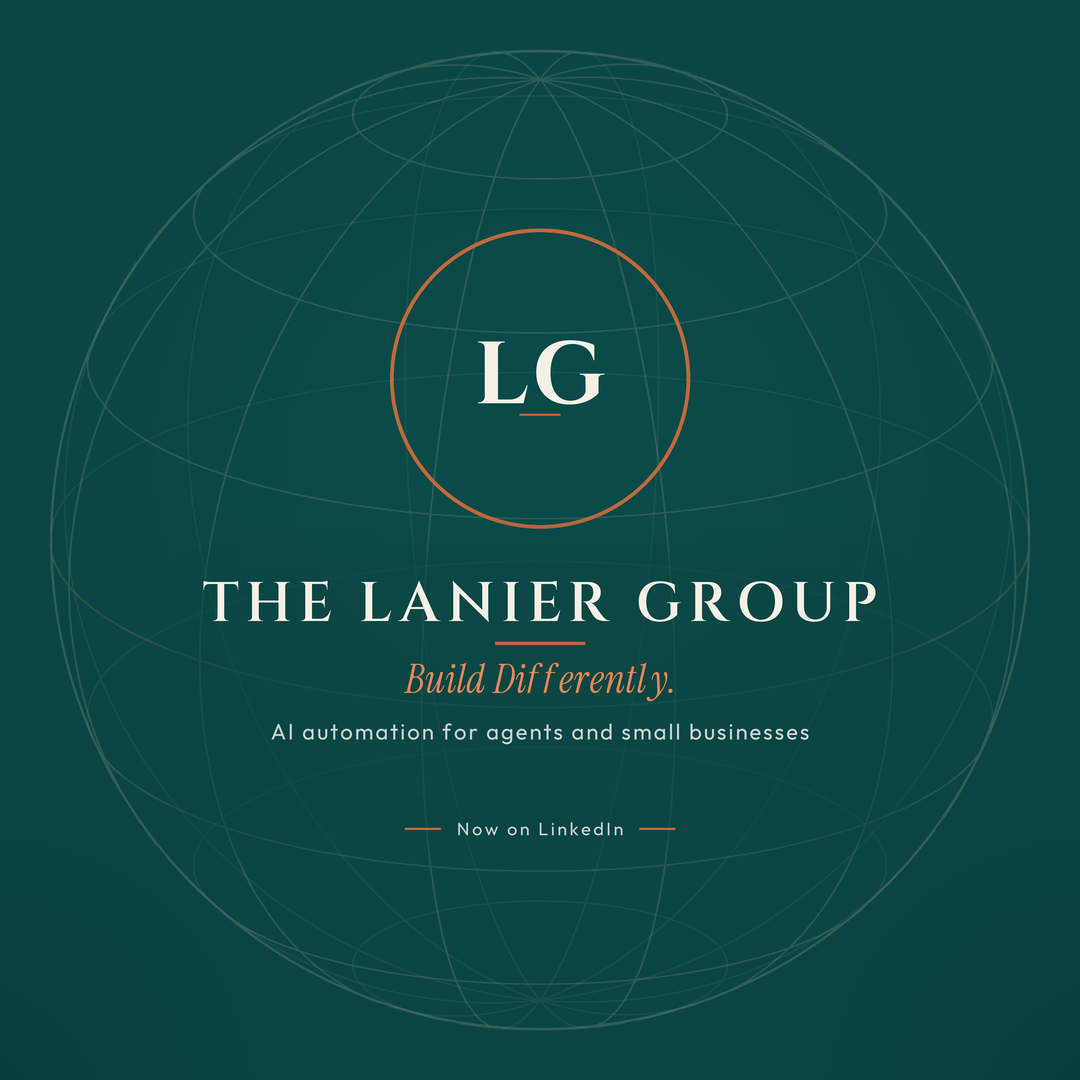
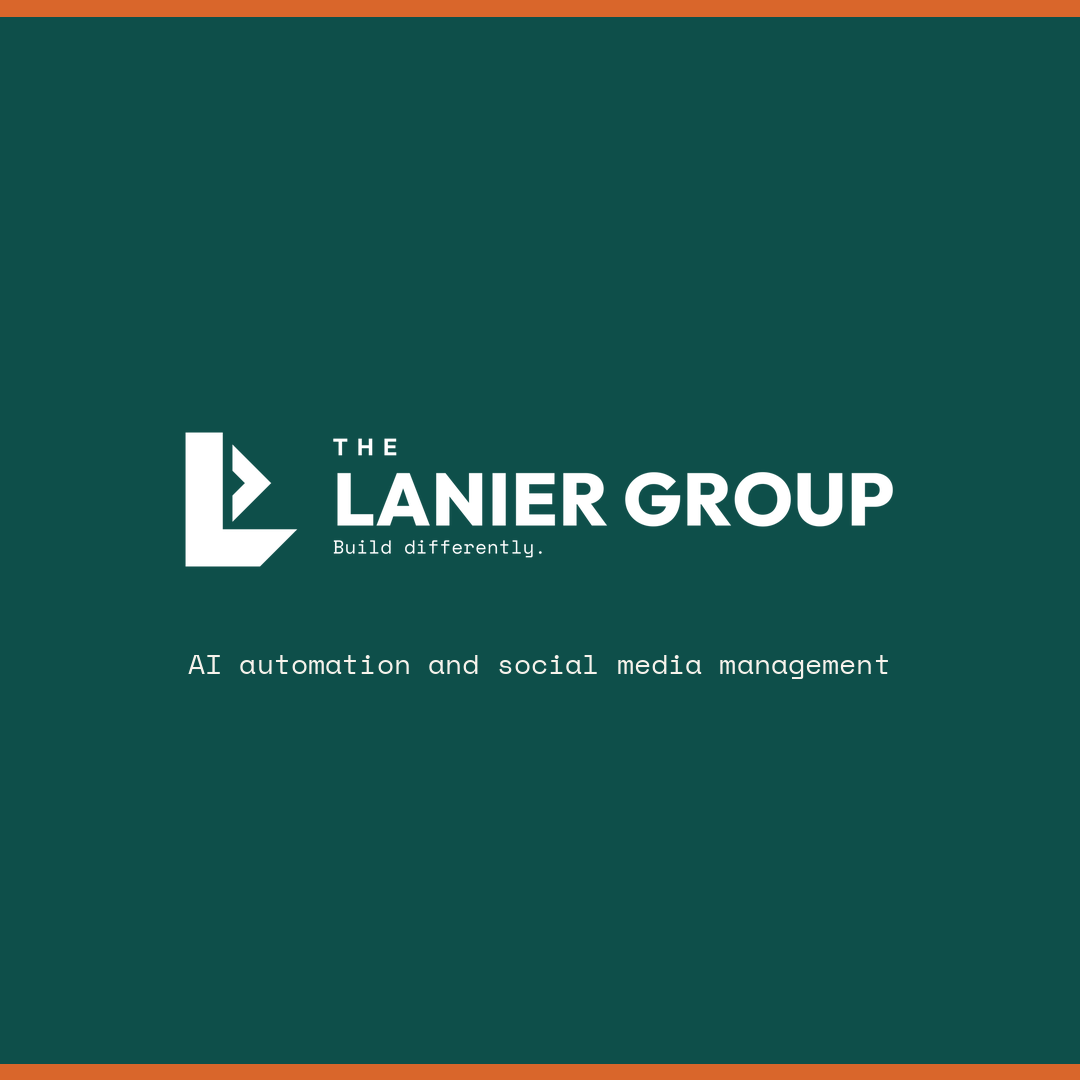
Update site to the approved Momentum brand
Replace the old circular LG monogram and Cinzel palette with the
Momentum mark, teal #0E4F4A, burnt orange #D9662B, and cream #F7F3EC.
Copy, v3 prices, and quote form links are unchanged.

diff --git a/styles.css b/styles.css
@@ -1,20 +1,21 @@
-/* The Lanier Group — draft site. Not published. */
+/* The Lanier Group — Momentum brand. */
 :root {
-  --teal: #0A4543;
-  --teal-deep: #073534;
-  --teal-mid: #0e5552;
-  --copper: #C1693C;
-  --copper-light: #E88858;
-  --copper-soft: #d47a4a;
-  --cream: #F5F0E6;
-  --cream-dark: #ebe4d6;
-  --ink: #14312f;
-  --ink-muted: #3d5553;
-  --white: #fffdf8;
-  --line: rgba(193, 105, 60, 0.35);
-  --shadow: 0 12px 40px rgba(10, 69, 67, 0.12);
-  --serif: "Cinzel", "Times New Roman", serif;
-  --sans: "Source Sans 3", "Source Sans Pro", "Helvetica Neue", Arial, sans-serif;
+  --teal: #0E4F4A;
+  --teal-deep: #0A3633;
+  --teal-mid: #13625C;
+  --copper: #D9662B;
+  --copper-light: #E37B45;
+  --copper-soft: #E08A58;
+  --cream: #F7F3EC;
+  --cream-dark: #E4DDD2;
+  --ink: #2C2A28;
+  --ink-muted: #5C5852;
+  --white: #FFFDF8;
+  --line: rgba(217, 102, 43, 0.35);
+  --shadow: 0 12px 40px rgba(14, 79, 74, 0.12);
+  --serif: "Outfit", "Helvetica Neue", Arial, sans-serif;
+  --sans: "Outfit", "Helvetica Neue", Arial, sans-serif;
+  --mono: "Space Mono", ui-monospace, monospace;
   --max: 1120px;
 }
 
@@ -44,9 +45,9 @@ a:hover { color: var(--copper); }
   position: sticky;
   top: 0;
   z-index: 40;
-  background: rgba(10, 69, 67, 0.96);
+  background: rgba(14, 79, 74, 0.96);
   backdrop-filter: blur(10px);
-  border-bottom: 1px solid rgba(193, 105, 60, 0.4);
+  border-bottom: 1px solid rgba(217, 102, 43, 0.4);
 }
 .site-header .wrap {
   display: flex;
@@ -65,14 +66,14 @@ a:hover { color: var(--copper); }
 .brand img {
   width: 42px;
   height: 42px;
-  border-radius: 50%;
+  border-radius: 8px;
 }
 .brand-name {
   font-family: var(--serif);
-  font-size: 0.82rem;
-  letter-spacing: 0.16em;
+  font-size: 0.92rem;
+  letter-spacing: 0.04em;
   text-transform: uppercase;
-  font-weight: 500;
+  font-weight: 700;
 }
 .nav {
   display: flex;
@@ -122,7 +123,7 @@ a:hover { color: var(--copper); }
 .btn-ghost {
   background: transparent;
   color: var(--cream);
-  border-color: rgba(245, 240, 230, 0.55);
+  border-color: rgba(247, 243, 236, 0.55);
 }
 .btn-ghost:hover {
   background: transparent;
@@ -150,19 +151,19 @@ a:hover { color: var(--copper); }
   width: 148px;
   height: 148px;
   margin: 0 auto 1.5rem;
-  border-radius: 50%;
+  border-radius: 28px;
 }
 .eyebrow {
-  font-family: var(--serif);
-  letter-spacing: 0.22em;
+  font-family: var(--mono);
+  letter-spacing: 0.16em;
   text-transform: uppercase;
-  font-size: 0.82rem;
+  font-size: 0.78rem;
   margin: 0 0 0.85rem;
   color: var(--cream);
 }
 .hero h1 {
   font-family: var(--serif);
-  font-weight: 500;
+  font-weight: 800;
   font-size: clamp(2.3rem, 6vw, 3.6rem);
   line-height: 1.15;
   margin: 0 0 0.35rem;
@@ -187,8 +188,8 @@ a:hover { color: var(--copper); }
 /* Sections */
 section { padding: 4.25rem 0; }
 .section-kicker {
-  font-family: var(--serif);
-  letter-spacing: 0.2em;
+  font-family: var(--mono);
+  letter-spacing: 0.14em;
   text-transform: uppercase;
   font-size: 0.75rem;
   color: var(--copper);
@@ -196,7 +197,7 @@ section { padding: 4.25rem 0; }
 }
 h2 {
   font-family: var(--serif);
-  font-weight: 500;
+  font-weight: 700;
   font-size: clamp(1.7rem, 3vw, 2.2rem);
   margin: 0 0 0.6rem;
   color: var(--teal);
@@ -222,7 +223,7 @@ h2 {
 }
 .card h3 {
   font-family: var(--serif);
-  font-weight: 500;
+  font-weight: 700;
   font-size: 1.25rem;
   margin: 0 0 0.7rem;
   color: var(--teal);
@@ -230,7 +231,7 @@ h2 {
 .card p { margin: 0; color: var(--ink-muted); font-size: 1.05rem; }
 .card-index {
   display: inline-block;
-  font-family: var(--serif);
+  font-family: var(--mono);
   color: var(--copper);
   letter-spacing: 0.12em;
   font-size: 0.78rem;
@@ -250,7 +251,7 @@ h2 {
 }
 .step h3 {
   font-family: var(--serif);
-  font-weight: 500;
+  font-weight: 700;
   font-size: 1.15rem;
   color: var(--teal);
   margin: 0 0 0.5rem;
@@ -259,7 +260,7 @@ h2 {
   align-items: baseline;
 }
 .num {
-  font-family: var(--serif);
+  font-family: var(--mono);
   color: var(--copper);
   font-size: 1.15rem;
 }
@@ -279,7 +280,7 @@ h2 {
 }
 .plan-group-title {
   font-family: var(--serif);
-  font-weight: 500;
+  font-weight: 700;
   font-size: 1.35rem;
   color: var(--teal);
   margin: 0 0 1.1rem;
@@ -299,17 +300,18 @@ h2 {
 }
 .plan-mid {
   border: 2px solid var(--copper);
-  background: #fffaf3;
+  background: #FFF8F0;
 }
 .plan h3 {
   font-family: var(--serif);
-  font-weight: 500;
+  font-weight: 700;
   font-size: 1.2rem;
   margin: 0 0 0.4rem;
   color: var(--teal);
 }
 .price {
   font-family: var(--serif);
+  font-weight: 700;
   font-size: 2.15rem;
   color: var(--teal);
   line-height: 1;
@@ -378,7 +380,7 @@ h2 {
 .about-art img {
   width: min(280px, 70%);
   height: auto;
-  border-radius: 50%;
+  border-radius: 48px;
   border: none;
 }
 @media (max-width: 860px) {
@@ -397,7 +399,7 @@ h2 {
   flex-direction: column;
   gap: 0.45rem;
 }
-.site-footer p { margin: 0; color: rgba(245, 240, 230, 0.82); }
+.site-footer p { margin: 0; color: rgba(247, 243, 236, 0.82); }
 .site-footer a { color: var(--copper-light); }
 
 /* Mobile */

diff --git a/index.html b/index.html
@@ -20,12 +20,12 @@
   <meta name="twitter:title" content="The Lanier Group | Build Differently.">
   <meta name="twitter:description" content="AI automation and social media management for real estate agents and small businesses.">
   <meta name="twitter:image" content="https://laniergroupai.net/assets/og.png">
-  <link rel="icon" type="image/png" sizes="32x32" href="assets/favicon-32.png">
-  <link rel="apple-touch-icon" href="assets/apple-touch-icon.png">
+  <link rel="icon" type="image/png" sizes="32x32" href="assets/favicon-32.png?v=momentum">
+  <link rel="apple-touch-icon" href="assets/apple-touch-icon.png?v=momentum">
   <link rel="preconnect" href="https://fonts.googleapis.com">
   <link rel="preconnect" href="https://fonts.gstatic.com" crossorigin>
-  <link href="https://fonts.googleapis.com/css2?family=Cinzel:wght@400;500;600&family=Source+Sans+3:ital,wght@0,400;0,500;0,600;0,700;1,400&display=swap" rel="stylesheet">
-  <link rel="stylesheet" href="styles.css">
+  <link href="https://fonts.googleapis.com/css2?family=Outfit:wght@400;500;600;700;800&family=Space+Mono:ital,wght@0,400;0,700;1,400&display=swap" rel="stylesheet">
+  <link rel="stylesheet" href="styles.css?v=momentum">
   <script type="application/ld+json">
   {
     "@context": "https://schema.org",
@@ -63,7 +63,7 @@
   <header class="site-header">
     <div class="wrap">
       <a class="brand" href="#top">
-        <img src="assets/logo.png" width="400" height="400" alt="The Lanier Group logo">
+        <img src="assets/logo.png?v=momentum" width="400" height="400" alt="The Lanier Group logo">
         <span class="brand-name">The Lanier Group</span>
       </a>
       <input type="checkbox" id="nav-toggle" class="nav-toggle" hidden>
@@ -81,7 +81,7 @@
   <main id="top">
     <section class="hero">
       <div class="wrap">
-        <img class="hero-logo" src="assets/logo.png" width="400" height="400" alt="The Lanier Group monogram">
+        <img class="hero-logo" src="assets/logo.png?v=momentum" width="400" height="400" alt="The Lanier Group logo">
         <p class="eyebrow">The Lanier Group</p>
         <h1>Build Differently.</h1>
         <hr class="hero-rule">
@@ -252,7 +252,7 @@
           </div>
         </div>
         <div class="about-art">
-          <img src="assets/logo.png" width="400" height="400" alt="The Lanier Group logo">
+          <img src="assets/logo.png?v=momentum" width="400" height="400" alt="The Lanier Group logo">
         </div>
       </div>
     </section>
